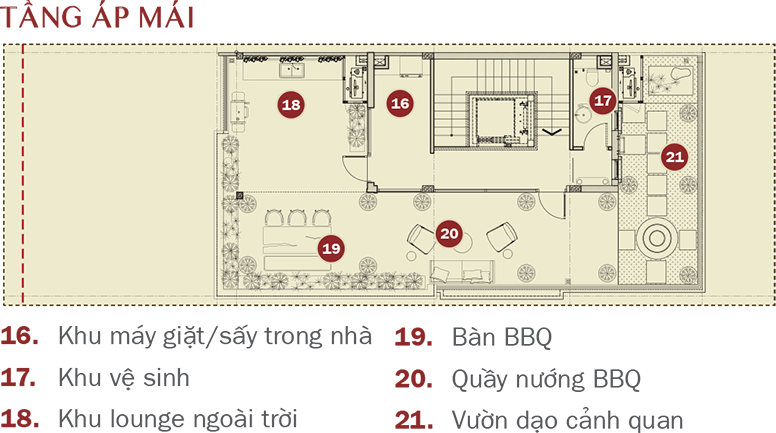
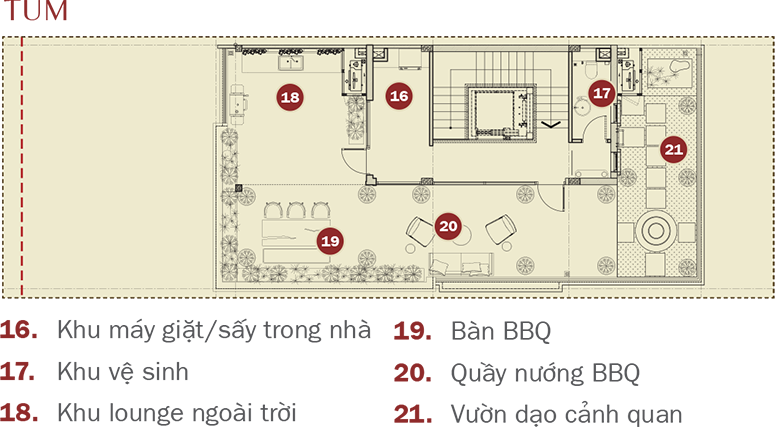
update css / photo

diff --git a/js/data.js b/js/data.js
@@ -1,100 +1,100 @@
 // Dữ liệu mẫu cho các ô - Bạn có thể chỉnh sửa theo nhu cầu
 const propertyData = {
   // Shophouse
-  SH02: { name: "Shophouse 02", unit: "SH - 02", floor: "3 tầng + 1 tầng áp mái", area: "172,50 m2" },
-  SH04: { name: "Shophouse 04", unit: "SH - 04", floor: "3 tầng + 1 tầng áp mái", area: "172,50 m2" },
-  SH06: { name: "Shophouse 06", unit: "SH - 06", floor: "3 tầng + 1 tầng áp mái", area: "172,50 m2" },
-  SH08: { name: "Shophouse 08", unit: "SH - 08", floor: "3 tầng + 1 tầng áp mái", area: "172,50 m2" },
-  SH10: { name: "Shophouse 10", unit: "SH - 10", floor: "3 tầng + 1 tầng áp mái", area: "172,50 m2" },
-  SH12: { name: "Shophouse 12", unit: "SH - 12", floor: "3 tầng + 1 tầng áp mái", area: "172,50 m2" },
-  SH14: { name: "Shophouse 14", unit: "SH - 14", floor: "3 tầng + 1 tầng áp mái", area: "172,50 m2" },
-  SH16: { name: "Shophouse 16", unit: "SH - 16", floor: "3 tầng + 1 tầng áp mái", area: "172,50 m2" },
-  SH18: { name: "Shophouse 18", unit: "SH - 18", floor: "3 tầng + 1 tầng áp mái", area: "172,50 m2" },
-  SH20: { name: "Shophouse 20", unit: "SH - 20", floor: "3 tầng + 1 tầng áp mái", area: "172,50 m2" },
-  SH22: { name: "Shophouse 22", unit: "SH - 22", floor: "3 tầng + 1 tầng áp mái", area: "160,20 m2" },
-  SH24: { name: "Shophouse 24", unit: "SH - 24", floor: "3 tầng + 1 tầng áp mái", area: "160,20 m2" },
-  SH26: { name: "Shophouse 26", unit: "SH - 26", floor: "3 tầng + 1 tầng áp mái", area: "172,50 m2" },
-  SH28: { name: "Shophouse 28", unit: "SH - 28", floor: "3 tầng + 1 tầng áp mái", area: "172,50 m2" },
-  SH30: { name: "Shophouse 30", unit: "SH - 30", floor: "3 tầng + 1 tầng áp mái", area: "172,50 m2" },
-  SH32: { name: "Shophouse 32", unit: "SH - 32", floor: "3 tầng + 1 tầng áp mái", area: "172,50 m2" },
-  SH34: { name: "Shophouse 34", unit: "SH - 34", floor: "3 tầng + 1 tầng áp mái", area: "172,50 m2" },
-  SH36: { name: "Shophouse 36", unit: "SH - 36", floor: "3 tầng + 1 tầng áp mái", area: "172,50 m2" },
-  SH38: { name: "Shophouse 38", unit: "SH - 38", floor: "3 tầng + 1 tầng áp mái", area: "172,50 m2" },
-  SH40: { name: "Shophouse 40", unit: "SH - 40", floor: "3 tầng + 1 tầng áp mái", area: "172,50 m2" },
-  SH42: { name: "Shophouse 42", unit: "SH - 42", floor: "3 tầng + 1 tầng áp mái", area: "172,50 m2" },
-  SH44: { name: "Shophouse 44", unit: "SH - 44", floor: "3 tầng + 1 tầng áp mái", area: "172,50 m2" },
-  SH46: { name: "Shophouse 46", unit: "SH - 46", floor: "3 tầng + 1 tầng áp mái", area: "172,50 m2" },
-  SH48: { name: "Shophouse 48", unit: "SH - 48", floor: "3 tầng + 1 tầng áp mái", area: "172,50 m2" },
-  SH50: { name: "Shophouse 50", unit: "SH - 50", floor: "3 tầng + 1 tầng áp mái", area: "172,50 m2" },
-  SH52: { name: "Shophouse 52", unit: "SH - 52", floor: "3 tầng + 1 tầng áp mái", area: "172,50 m2" },
-  SH54: { name: "Shophouse 54", unit: "SH - 54", floor: "3 tầng + 1 tầng áp mái", area: "172,50 m2" },
-  SH56: { name: "Shophouse 56", unit: "SH - 56", floor: "3 tầng + 1 tầng áp mái", area: "172,50 m2" },
-  SH58: { name: "Shophouse 58", unit: "SH - 58", floor: "3 tầng + 1 tầng áp mái", area: "172,50 m2" },
-  SH60: { name: "Shophouse 60", unit: "SH - 60", floor: "3 tầng + 1 tầng áp mái", area: "172,50 m2" },
-  SH62: { name: "Shophouse 62", unit: "SH - 62", floor: "3 tầng + 1 tầng áp mái", area: "392,50 m2" },
+  SH02: { name: "Shophouse 02", unit: "SH - 02", floor: "3 tầng + 1 tum", area: "172,50 m2" },
+  SH04: { name: "Shophouse 04", unit: "SH - 04", floor: "3 tầng + 1 tum", area: "172,50 m2" },
+  SH06: { name: "Shophouse 06", unit: "SH - 06", floor: "3 tầng + 1 tum", area: "172,50 m2" },
+  SH08: { name: "Shophouse 08", unit: "SH - 08", floor: "3 tầng + 1 tum", area: "172,50 m2" },
+  SH10: { name: "Shophouse 10", unit: "SH - 10", floor: "3 tầng + 1 tum", area: "172,50 m2" },
+  SH12: { name: "Shophouse 12", unit: "SH - 12", floor: "3 tầng + 1 tum", area: "172,50 m2" },
+  SH14: { name: "Shophouse 14", unit: "SH - 14", floor: "3 tầng + 1 tum", area: "172,50 m2" },
+  SH16: { name: "Shophouse 16", unit: "SH - 16", floor: "3 tầng + 1 tum", area: "172,50 m2" },
+  SH18: { name: "Shophouse 18", unit: "SH - 18", floor: "3 tầng + 1 tum", area: "172,50 m2" },
+  SH20: { name: "Shophouse 20", unit: "SH - 20", floor: "3 tầng + 1 tum", area: "172,50 m2" },
+  SH22: { name: "Shophouse 22", unit: "SH - 22", floor: "3 tầng + 1 tum", area: "160,20 m2" },
+  SH24: { name: "Shophouse 24", unit: "SH - 24", floor: "3 tầng + 1 tum", area: "160,20 m2" },
+  SH26: { name: "Shophouse 26", unit: "SH - 26", floor: "3 tầng + 1 tum", area: "172,50 m2" },
+  SH28: { name: "Shophouse 28", unit: "SH - 28", floor: "3 tầng + 1 tum", area: "172,50 m2" },
+  SH30: { name: "Shophouse 30", unit: "SH - 30", floor: "3 tầng + 1 tum", area: "172,50 m2" },
+  SH32: { name: "Shophouse 32", unit: "SH - 32", floor: "3 tầng + 1 tum", area: "172,50 m2" },
+  SH34: { name: "Shophouse 34", unit: "SH - 34", floor: "3 tầng + 1 tum", area: "172,50 m2" },
+  SH36: { name: "Shophouse 36", unit: "SH - 36", floor: "3 tầng + 1 tum", area: "172,50 m2" },
+  SH38: { name: "Shophouse 38", unit: "SH - 38", floor: "3 tầng + 1 tum", area: "172,50 m2" },
+  SH40: { name: "Shophouse 40", unit: "SH - 40", floor: "3 tầng + 1 tum", area: "172,50 m2" },
+  SH42: { name: "Shophouse 42", unit: "SH - 42", floor: "3 tầng + 1 tum", area: "172,50 m2" },
+  SH44: { name: "Shophouse 44", unit: "SH - 44", floor: "3 tầng + 1 tum", area: "172,50 m2" },
+  SH46: { name: "Shophouse 46", unit: "SH - 46", floor: "3 tầng + 1 tum", area: "172,50 m2" },
+  SH48: { name: "Shophouse 48", unit: "SH - 48", floor: "3 tầng + 1 tum", area: "172,50 m2" },
+  SH50: { name: "Shophouse 50", unit: "SH - 50", floor: "3 tầng + 1 tum", area: "172,50 m2" },
+  SH52: { name: "Shophouse 52", unit: "SH - 52", floor: "3 tầng + 1 tum", area: "172,50 m2" },
+  SH54: { name: "Shophouse 54", unit: "SH - 54", floor: "3 tầng + 1 tum", area: "172,50 m2" },
+  SH56: { name: "Shophouse 56", unit: "SH - 56", floor: "3 tầng + 1 tum", area: "172,50 m2" },
+  SH58: { name: "Shophouse 58", unit: "SH - 58", floor: "3 tầng + 1 tum", area: "172,50 m2" },
+  SH60: { name: "Shophouse 60", unit: "SH - 60", floor: "3 tầng + 1 tum", area: "172,50 m2" },
+  SH62: { name: "Shophouse 62", unit: "SH - 62", floor: "3 tầng + 1 tum", area: "392,50 m2" },
 
   // Townhouse - Danh sách đầy đủ
   // Hàng Townhouse 60-40
-  TH60: { name: "Townhouse 60", unit: "TH - 60", floor: "3 tầng + 1 tầng áp mái", area: "150,00 m2" },
-  TH58: { name: "Townhouse 58", unit: "TH - 58", floor: "3 tầng + 1 tầng áp mái", area: "153,75 m2" },
-  TH56: { name: "Townhouse 56", unit: "TH - 56", floor: "3 tầng + 1 tầng áp mái", area: "153,75 m2" },
-  TH54: { name: "Townhouse 54", unit: "TH - 54", floor: "3 tầng + 1 tầng áp mái", area: "153,75 m2" },
-  TH52: { name: "Townhouse 52", unit: "TH - 52", floor: "3 tầng + 1 tầng áp mái", area: "153,75 m2" },
-  TH50: { name: "Townhouse 50", unit: "TH - 50", floor: "3 tầng + 1 tầng áp mái", area: "153,75 m2" },
-  TH48: { name: "Townhouse 48", unit: "TH - 48", floor: "3 tầng + 1 tầng áp mái", area: "153,75 m2" },
-  TH46: { name: "Townhouse 46", unit: "TH - 46", floor: "3 tầng + 1 tầng áp mái", area: "153,75 m2" },
-  TH44: { name: "Townhouse 44", unit: "TH - 44", floor: "3 tầng + 1 tầng áp mái", area: "153,75 m2" },
-  TH42: { name: "Townhouse 42", unit: "TH - 42", floor: "3 tầng + 1 tầng áp mái", area: "153,75 m2" },
-  TH40: { name: "Townhouse 40", unit: "TH - 40", floor: "3 tầng + 1 tầng áp mái", area: "145,80 m2" },
+  TH60: { name: "Townhouse 60", unit: "TH - 60", floor: "3 tầng + 1 tum", area: "150,00 m2" },
+  TH58: { name: "Townhouse 58", unit: "TH - 58", floor: "3 tầng + 1 tum", area: "153,75 m2" },
+  TH56: { name: "Townhouse 56", unit: "TH - 56", floor: "3 tầng + 1 tum", area: "153,75 m2" },
+  TH54: { name: "Townhouse 54", unit: "TH - 54", floor: "3 tầng + 1 tum", area: "153,75 m2" },
+  TH52: { name: "Townhouse 52", unit: "TH - 52", floor: "3 tầng + 1 tum", area: "153,75 m2" },
+  TH50: { name: "Townhouse 50", unit: "TH - 50", floor: "3 tầng + 1 tum", area: "153,75 m2" },
+  TH48: { name: "Townhouse 48", unit: "TH - 48", floor: "3 tầng + 1 tum", area: "153,75 m2" },
+  TH46: { name: "Townhouse 46", unit: "TH - 46", floor: "3 tầng + 1 tum", area: "153,75 m2" },
+  TH44: { name: "Townhouse 44", unit: "TH - 44", floor: "3 tầng + 1 tum", area: "153,75 m2" },
+  TH42: { name: "Townhouse 42", unit: "TH - 42", floor: "3 tầng + 1 tum", area: "153,75 m2" },
+  TH40: { name: "Townhouse 40", unit: "TH - 40", floor: "3 tầng + 1 tum", area: "145,80 m2" },
   
   // Hàng Townhouse 38-02
-  TH38: { name: "Townhouse 38", unit: "TH - 38", floor: "3 tầng + 1 tầng áp mái", area: "145,80 m2" },
-  TH36: { name: "Townhouse 36", unit: "TH - 36", floor: "3 tầng + 1 tầng áp mái", area: "153,75 m2" },
-  TH34: { name: "Townhouse 34", unit: "TH - 34", floor: "3 tầng + 1 tầng áp mái", area: "153,75 m2" },
-  TH32: { name: "Townhouse 32", unit: "TH - 32", floor: "3 tầng + 1 tầng áp mái", area: "153,75 m2" },
-  TH30: { name: "Townhouse 30", unit: "TH - 30", floor: "3 tầng + 1 tầng áp mái", area: "153,75 m2" },
-  TH28: { name: "Townhouse 28", unit: "TH - 28", floor: "3 tầng + 1 tầng áp mái", area: "153,75 m2" },
-  TH26: { name: "Townhouse 26", unit: "TH - 26", floor: "3 tầng + 1 tầng áp mái", area: "153,75 m2" },
-  TH24: { name: "Townhouse 24", unit: "TH - 24", floor: "3 tầng + 1 tầng áp mái", area: "153,75 m2" },
-  TH22: { name: "Townhouse 22", unit: "TH - 22", floor: "3 tầng + 1 tầng áp mái", area: "153,75 m2" },
-  TH20: { name: "Townhouse 20", unit: "TH - 20", floor: "3 tầng + 1 tầng áp mái", area: "153,75 m2" },
-  TH18: { name: "Townhouse 18", unit: "TH - 18", floor: "3 tầng + 1 tầng áp mái", area: "153,75 m2" },
-  TH16: { name: "Townhouse 16", unit: "TH - 16", floor: "3 tầng + 1 tầng áp mái", area: "153,75 m2" },
-  TH14: { name: "Townhouse 14", unit: "TH - 14", floor: "3 tầng + 1 tầng áp mái", area: "153,75 m2" },
-  TH12: { name: "Townhouse 12", unit: "TH - 12", floor: "3 tầng + 1 tầng áp mái", area: "153,75 m2" },
-  TH10: { name: "Townhouse 10", unit: "TH - 10", floor: "3 tầng + 1 tầng áp mái", area: "153,75 m2" },
-  TH08: { name: "Townhouse 08", unit: "TH - 08", floor: "3 tầng + 1 tầng áp mái", area: "153,75 m2" },
-  TH06: { name: "Townhouse 06", unit: "TH - 06", floor: "3 tầng + 1 tầng áp mái", area: "153,75 m2" },
-  TH04: { name: "Townhouse 04", unit: "TH - 04", floor: "3 tầng + 1 tầng áp mái", area: "153,75 m2" },
-  TH02: { name: "Townhouse 02", unit: "TH - 02", floor: "3 tầng + 1 tầng áp mái", area: "344,50 m2" },
+  TH38: { name: "Townhouse 38", unit: "TH - 38", floor: "3 tầng + 1 tum", area: "145,80 m2" },
+  TH36: { name: "Townhouse 36", unit: "TH - 36", floor: "3 tầng + 1 tum", area: "153,75 m2" },
+  TH34: { name: "Townhouse 34", unit: "TH - 34", floor: "3 tầng + 1 tum", area: "153,75 m2" },
+  TH32: { name: "Townhouse 32", unit: "TH - 32", floor: "3 tầng + 1 tum", area: "153,75 m2" },
+  TH30: { name: "Townhouse 30", unit: "TH - 30", floor: "3 tầng + 1 tum", area: "153,75 m2" },
+  TH28: { name: "Townhouse 28", unit: "TH - 28", floor: "3 tầng + 1 tum", area: "153,75 m2" },
+  TH26: { name: "Townhouse 26", unit: "TH - 26", floor: "3 tầng + 1 tum", area: "153,75 m2" },
+  TH24: { name: "Townhouse 24", unit: "TH - 24", floor: "3 tầng + 1 tum", area: "153,75 m2" },
+  TH22: { name: "Townhouse 22", unit: "TH - 22", floor: "3 tầng + 1 tum", area: "153,75 m2" },
+  TH20: { name: "Townhouse 20", unit: "TH - 20", floor: "3 tầng + 1 tum", area: "153,75 m2" },
+  TH18: { name: "Townhouse 18", unit: "TH - 18", floor: "3 tầng + 1 tum", area: "153,75 m2" },
+  TH16: { name: "Townhouse 16", unit: "TH - 16", floor: "3 tầng + 1 tum", area: "153,75 m2" },
+  TH14: { name: "Townhouse 14", unit: "TH - 14", floor: "3 tầng + 1 tum", area: "153,75 m2" },
+  TH12: { name: "Townhouse 12", unit: "TH - 12", floor: "3 tầng + 1 tum", area: "153,75 m2" },
+  TH10: { name: "Townhouse 10", unit: "TH - 10", floor: "3 tầng + 1 tum", area: "153,75 m2" },
+  TH08: { name: "Townhouse 08", unit: "TH - 08", floor: "3 tầng + 1 tum", area: "153,75 m2" },
+  TH06: { name: "Townhouse 06", unit: "TH - 06", floor: "3 tầng + 1 tum", area: "153,75 m2" },
+  TH04: { name: "Townhouse 04", unit: "TH - 04", floor: "3 tầng + 1 tum", area: "153,75 m2" },
+  TH02: { name: "Townhouse 02", unit: "TH - 02", floor: "3 tầng + 1 tum", area: "344,50 m2" },
   
   // Hàng Townhouse 55-01
-  TH55: { name: "Townhouse 55", unit: "TH - 55", floor: "3 tầng + 1 tầng áp mái", area: "150,00 m2" },
-  TH53: { name: "Townhouse 53", unit: "TH - 53", floor: "3 tầng + 1 tầng áp mái", area: "153,75 m2" },
-  TH51: { name: "Townhouse 51", unit: "TH - 51", floor: "3 tầng + 1 tầng áp mái", area: "153,75 m2" },
-  TH49: { name: "Townhouse 49", unit: "TH - 49", floor: "3 tầng + 1 tầng áp mái", area: "153,75 m2" },
-  TH47: { name: "Townhouse 47", unit: "TH - 47", floor: "3 tầng + 1 tầng áp mái", area: "153,75 m2" },
-  TH45: { name: "Townhouse 45", unit: "TH - 45", floor: "3 tầng + 1 tầng áp mái", area: "153,75 m2" },
-  TH43: { name: "Townhouse 43", unit: "TH - 43", floor: "3 tầng + 1 tầng áp mái", area: "153,75 m2" },
-  TH41: { name: "Townhouse 41", unit: "TH - 41", floor: "3 tầng + 1 tầng áp mái", area: "153,75 m2" },
-  TH39: { name: "Townhouse 39", unit: "TH - 39", floor: "3 tầng + 1 tầng áp mái", area: "153,75 m2" },
-  TH37: { name: "Townhouse 37", unit: "TH - 37", floor: "3 tầng + 1 tầng áp mái", area: "153,75 m2" },
-  TH31: { name: "Townhouse 31", unit: "TH - 31", floor: "3 tầng + 1 tầng áp mái", area: "153,75 m2" },
-  TH29: { name: "Townhouse 29", unit: "TH - 29", floor: "3 tầng + 1 tầng áp mái", area: "153,75 m2" },
-  TH27: { name: "Townhouse 27", unit: "TH - 27", floor: "3 tầng + 1 tầng áp mái", area: "153,75 m2" },
-  TH25: { name: "Townhouse 25", unit: "TH - 25", floor: "3 tầng + 1 tầng áp mái", area: "153,75 m2" },
-  TH23: { name: "Townhouse 23", unit: "TH - 23", floor: "3 tầng + 1 tầng áp mái", area: "153,75 m2" },
-  TH21: { name: "Townhouse 21", unit: "TH - 21", floor: "3 tầng + 1 tầng áp mái", area: "153,75 m2" },
-  TH19: { name: "Townhouse 19", unit: "TH - 19", floor: "3 tầng + 1 tầng áp mái", area: "153,75 m2" },
-  TH17: { name: "Townhouse 17", unit: "TH - 17", floor: "3 tầng + 1 tầng áp mái", area: "153,75 m2" },
-  TH15: { name: "Townhouse 15", unit: "TH - 15", floor: "3 tầng + 1 tầng áp mái", area: "153,75 m2" },
-  TH13: { name: "Townhouse 13", unit: "TH - 13", floor: "3 tầng + 1 tầng áp mái", area: "153,75 m2" },
-  TH11: { name: "Townhouse 11", unit: "TH - 11", floor: "3 tầng + 1 tầng áp mái", area: "153,75 m2" },
-  TH09: { name: "Townhouse 09", unit: "TH - 09", floor: "3 tầng + 1 tầng áp mái", area: "153,75 m2" },
-  TH07: { name: "Townhouse 07", unit: "TH - 07", floor: "3 tầng + 1 tầng áp mái", area: "153,75 m2" },
-  TH05: { name: "Townhouse 05", unit: "TH - 05", floor: "3 tầng + 1 tầng áp mái", area: "153,75 m2" },
-  TH03: { name: "Townhouse 03", unit: "TH - 03", floor: "3 tầng + 1 tầng áp mái", area: "153,75 m2" },
-  TH01: { name: "Townhouse 01", unit: "TH - 01", floor: "3 tầng + 1 tầng áp mái", area: "344,50 m2" },
+  TH55: { name: "Townhouse 55", unit: "TH - 55", floor: "3 tầng + 1 tum", area: "150,00 m2" },
+  TH53: { name: "Townhouse 53", unit: "TH - 53", floor: "3 tầng + 1 tum", area: "153,75 m2" },
+  TH51: { name: "Townhouse 51", unit: "TH - 51", floor: "3 tầng + 1 tum", area: "153,75 m2" },
+  TH49: { name: "Townhouse 49", unit: "TH - 49", floor: "3 tầng + 1 tum", area: "153,75 m2" },
+  TH47: { name: "Townhouse 47", unit: "TH - 47", floor: "3 tầng + 1 tum", area: "153,75 m2" },
+  TH45: { name: "Townhouse 45", unit: "TH - 45", floor: "3 tầng + 1 tum", area: "153,75 m2" },
+  TH43: { name: "Townhouse 43", unit: "TH - 43", floor: "3 tầng + 1 tum", area: "153,75 m2" },
+  TH41: { name: "Townhouse 41", unit: "TH - 41", floor: "3 tầng + 1 tum", area: "153,75 m2" },
+  TH39: { name: "Townhouse 39", unit: "TH - 39", floor: "3 tầng + 1 tum", area: "153,75 m2" },
+  TH37: { name: "Townhouse 37", unit: "TH - 37", floor: "3 tầng + 1 tum", area: "153,75 m2" },
+  TH31: { name: "Townhouse 31", unit: "TH - 31", floor: "3 tầng + 1 tum", area: "153,75 m2" },
+  TH29: { name: "Townhouse 29", unit: "TH - 29", floor: "3 tầng + 1 tum", area: "153,75 m2" },
+  TH27: { name: "Townhouse 27", unit: "TH - 27", floor: "3 tầng + 1 tum", area: "153,75 m2" },
+  TH25: { name: "Townhouse 25", unit: "TH - 25", floor: "3 tầng + 1 tum", area: "153,75 m2" },
+  TH23: { name: "Townhouse 23", unit: "TH - 23", floor: "3 tầng + 1 tum", area: "153,75 m2" },
+  TH21: { name: "Townhouse 21", unit: "TH - 21", floor: "3 tầng + 1 tum", area: "153,75 m2" },
+  TH19: { name: "Townhouse 19", unit: "TH - 19", floor: "3 tầng + 1 tum", area: "153,75 m2" },
+  TH17: { name: "Townhouse 17", unit: "TH - 17", floor: "3 tầng + 1 tum", area: "153,75 m2" },
+  TH15: { name: "Townhouse 15", unit: "TH - 15", floor: "3 tầng + 1 tum", area: "153,75 m2" },
+  TH13: { name: "Townhouse 13", unit: "TH - 13", floor: "3 tầng + 1 tum", area: "153,75 m2" },
+  TH11: { name: "Townhouse 11", unit: "TH - 11", floor: "3 tầng + 1 tum", area: "153,75 m2" },
+  TH09: { name: "Townhouse 09", unit: "TH - 09", floor: "3 tầng + 1 tum", area: "153,75 m2" },
+  TH07: { name: "Townhouse 07", unit: "TH - 07", floor: "3 tầng + 1 tum", area: "153,75 m2" },
+  TH05: { name: "Townhouse 05", unit: "TH - 05", floor: "3 tầng + 1 tum", area: "153,75 m2" },
+  TH03: { name: "Townhouse 03", unit: "TH - 03", floor: "3 tầng + 1 tum", area: "153,75 m2" },
+  TH01: { name: "Townhouse 01", unit: "TH - 01", floor: "3 tầng + 1 tum", area: "344,50 m2" },
 }
 
 // Tọa độ các ô theo phần trăm (%) trong viewBox (0 0 1290 527)

diff --git a/css/style.css b/css/style.css
@@ -1224,6 +1224,10 @@ section[id] {
     text-align: justify;
 }
 
+.popup-description .title-tab-clubhouse{
+    text-align: center;
+}
+
 .popup-description .toamancu-description{
     margin-bottom: 30px;
 }
@@ -4572,7 +4576,7 @@ section[id] {
         justify-self: center;
         width: 100%;
         max-width: 300px;
-        margin: 0 auto;
+        margin: 0 auto 50px auto;
     }
     
     .partner-logo-wrapper {
@@ -4758,6 +4762,7 @@ section[id] {
     color: #111111;
     text-decoration: none;
 }
+
 
 .form-description-wrapper {
     margin-bottom: 15px;
@@ -4950,6 +4955,16 @@ section[id] {
 }
 
 @media (max-width: 768px) {
+    .contact-icon img {
+        width: 40px;
+        height: 40px;
+      }
+    .connect-today-right{
+        padding: 50px 0 20px 0;
+    }
+    .contact-info-divider.mobile{
+        text-align: center;
+    }
     .connect-today-section {
         padding: 60px 0;
     }
@@ -5435,7 +5450,7 @@ section[id] {
         justify-self: center;
         width: 100%;
         max-width: 250px;
-        margin: 0 auto;
+        margin: 0 auto 20px auto;
     }
     
     .optimal-floor-plan-left img{

diff --git a/index.html b/index.html
@@ -918,6 +918,7 @@
               </div>
 
               <div class="contact-info-divider"></div>
+             
 
               <div class="contact-info-item">
                 <p class="contact-info-label">EMAIL:</p>
@@ -929,6 +930,10 @@
           <!-- Vertical Divider -->
           <div class="connect-today-divider">
             <img src="images/line-divider-footer.png" alt="Divider" loading="lazy" class="contact-info-divider-img">
+          </div>
+
+          <div class="contact-info-divider mobile">
+            <img src="images/line-divider-footer-mobile.png" alt="Divider" loading="lazy" class="contact-info-divider-img">
           </div>
 
           <!-- Right Column: Registration Form -->
